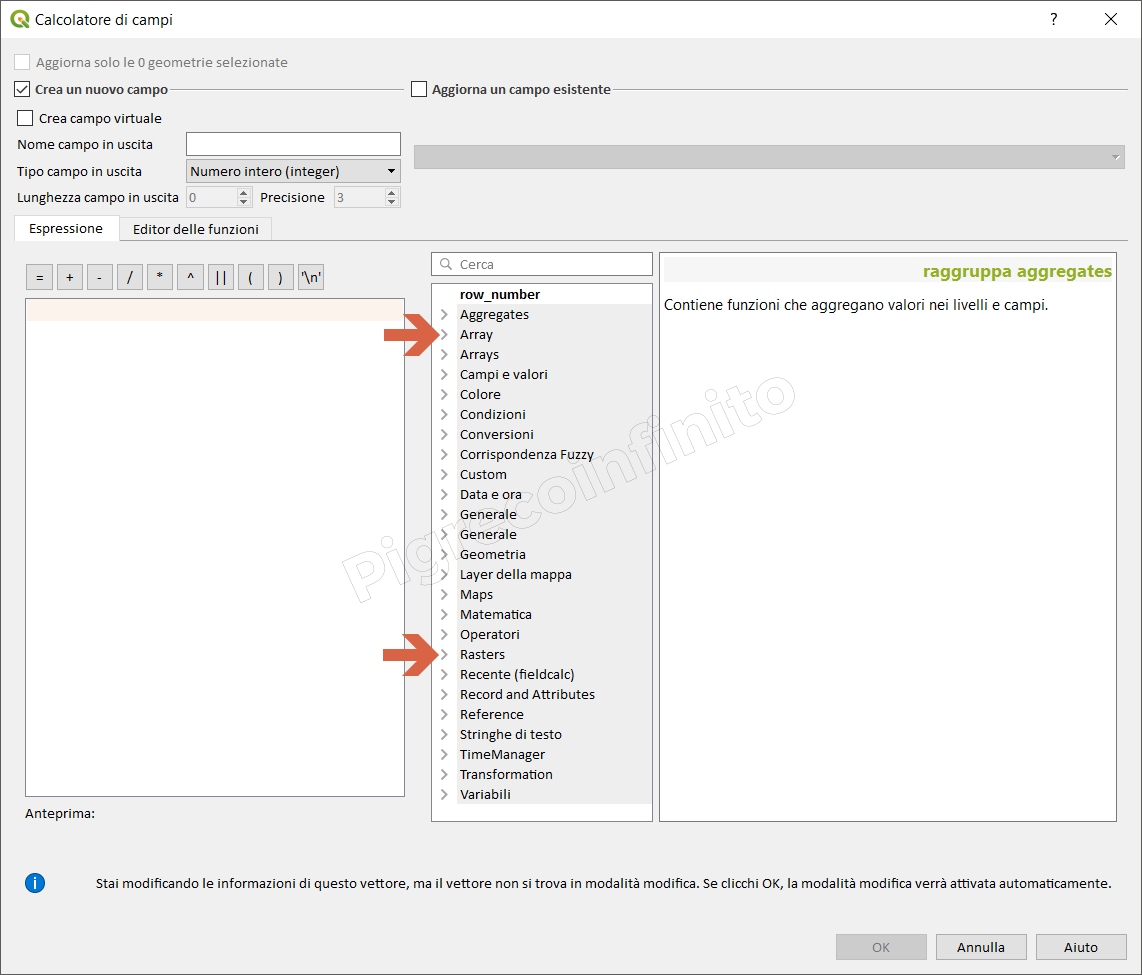
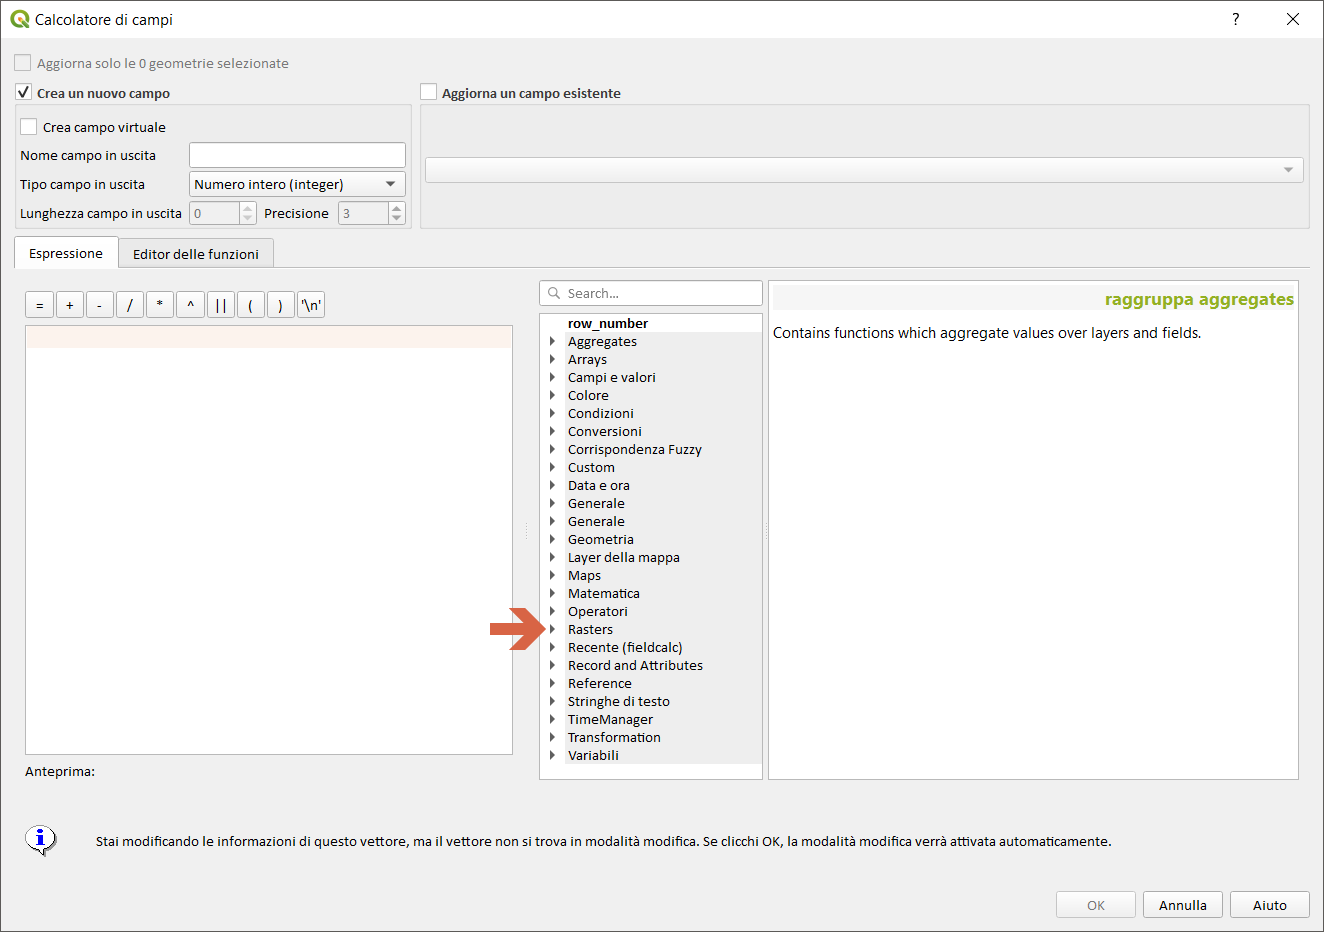
update

diff --git a/novita_34.md b/novita_34.md
@@ -1,6 +1,6 @@
 # Novità rilevanti introdotte nella 3.4 LTR
 
-## Nuovi gruppi funzioni nel calcolatore di campi
+## Nuovo gruppo funzioni nel calcolatore di campi
 ![](/img/novita_34/neo_gruppi.png)
 
 ## Nuove funzioni
@@ -9,10 +9,10 @@
 * [**line_substring**](./gr_funzioni/geometria/funzioni/line_substring.md) - PR [#7587](https://github.com/qgis/QGIS/pull/7587)
 ### Gruppo Rasters
 * [**raster_value()**](./gr_funzioni/rasters/funzioni/raster_value.md) - PR [#7487](https://github.com/qgis/QGIS/pull/7487) 
-### Gruppo Array
+### Gruppo Arrays
 * [**array_foreach**](./gr_funzioni/array/funzioni/array_foreach.md) -PR [#7628](https://github.com/qgis/QGIS/pull/7628)
 * [**array_filter**](./gr_funzioni/array/funzioni/array_filter.md) - PR [#7688](https://github.com/qgis/QGIS/pull/7688)
-### Gruppo Arrays
+
 * [**generate_series**](./gr_funzioni/arrays/funzioni/generate_series.md) - PR [#7655](https://github.com/qgis/QGIS/pull/7655)
 ### Gruppo Conversioni
 * [**to_dm**](./gr_funzioni/conversioni/funzioni/to_dm.md) - PR [#7593](https://github.com/qgis/QGIS/pull/7593)
